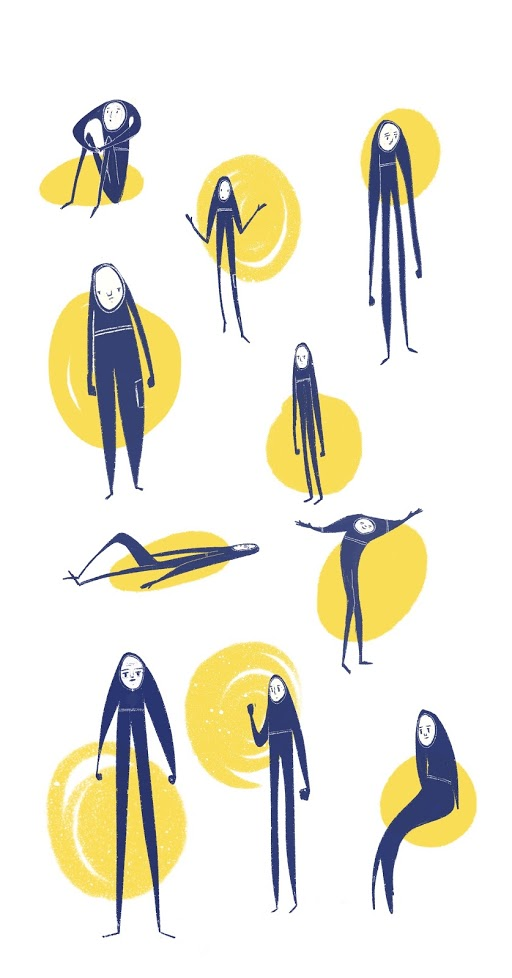
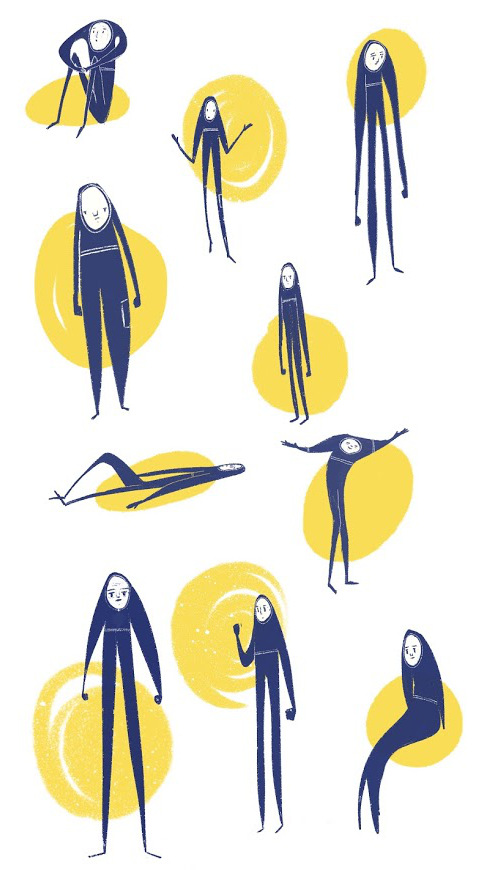
illustrations came from contentfull

diff --git a/pages/illustrations.js b/pages/illustrations.js
@@ -1,80 +1,68 @@
-import React, { useState } from 'react'
-import Image from 'next/image'
-import Head from 'next/head'
+import React, { useState } from 'react';
+import Image from 'next/image';
+import Head from 'next/head';
 import styles from './illustrations.module.scss';
-const fs = require('fs')
-const path = require('path');
-function illustration({ images }) {
-    const [showModal, setShowModal] = useState()
-    const handleOpenModal = (filename) => { setShowModal(filename) }
-    const handleCloseModal = () => { setShowModal() }
-    return (
-      <div >
-        <Head>
-          <title key="title">Illustrations 👨💻</title>
-        </Head>
-        <h1>Illustrations</h1>
-        {showModal && (
-          <div id="backdrop" onClick={handleCloseModal}>
-            <img src={showModal} className="backdrop__image" />
-          </div>
-        )}
-        <h2>The Wind</h2>
-        <div className={styles.container}>
-          <img src="/open.png" width={120} className={styles.open} />
 
-          {images['The Wind'].map((image, index) => (
-            <Image
-              onClick={() => handleOpenModal(`/images/illustrations/The Wind/${image}`)}
-              className="illustration"
-              key={`The Wind-${index}`}
-              src={`/images/illustrations/The Wind/${image}`}
-              width="128"
-              height="128"
-              objectFit="cover"
-            />
-          ))}
+function illustration(props) {
+  const [showModal, setShowModal] = useState();
+  const handleOpenModal = (filename) => {
+    setShowModal(filename);
+  };
+  const handleCloseModal = () => {
+    setShowModal();
+  };
+  const collections = [...new Set(props.data.items.map((image) => image.fields.collection[0]))];
+  return (
+    <div>
+      <Head>
+        <title key="title">Illustrations 👨💻</title>
+      </Head>
+      <h1>Illustrations</h1>
+      {showModal && (
+        <div id="backdrop" onClick={handleCloseModal}>
+          <img src={showModal} className="backdrop__image" />
         </div>
-        {Object.keys(images)
-          .filter((folder) => folder !== 'The Wind')
-          .map((folder) => (
-            <section key={folder}>
-              <h2>{folder}</h2>
-              <div className={styles.container}>
-                {images[folder].map((image, index) => (
-                  <Image
-                    onClick={() => handleOpenModal(`/images/illustrations/${folder}/${image}`)}
-                    className="illustration"
-                    key={`${folder}-${index}`}
-                    src={`/images/illustrations/${folder}/${image}`}
-                    width="64"
-                    height="64"
-                    objectFit="cover"
-                  />
-                ))}
-              </div>
-            </section>
-          ))}
-      </div>
-    );
+      )}
+      {collections.map((collection) => (
+        <>
+          <h2>{collection}</h2>
+          <div className={styles.container}>
+            {props.data.items
+              .filter((image) => image.fields.collection.includes(collection))
+              .map((image, index) => (
+                <Image
+                  onClick={() => handleOpenModal('https:' + image.fields.image.fields.file.url)}
+                  className="illustration"
+                  key={image.fields.title}
+                  src={'https:' + image.fields.image.fields.file.url}
+                  width="128"
+                  height="128"
+                  objectFit="cover"
+                />
+              ))}
+          </div>
+        </>
+      ))}
+    </div>
+  );
 }
 
-export default illustration
+export default illustration;
 
-
-export async function getStaticProps() {
-    const categories = fs.readdirSync(path.join(process.cwd(), '/public/images/illustrations'))
-    let tmp = []
-    let images = {}
-
-    categories
-        .filter(category => category != '.DS_Store')
-        .forEach(category => {
-            tmp = fs.readdirSync(path.join(process.cwd(), `/public/images/illustrations/${category}`))
-            images[category] = tmp.filter(image => image != '.DS_Store')
-        })
-
-    return {
-        props: { images },
-    };
-}
+const space = process.env.NEXT_PUBLIC_CONTENTFUL_SPACE_ID;
+const accessToken = process.env.NEXT_PUBLIC_CONTENTFUL_ACCESS_TOKEN;
+const client = require('contentful').createClient({
+  space: space,
+  accessToken: accessToken,
+});
+export const getServerSideProps = async (ctx) => {
+  const illustrations = await client.getEntries({
+    content_type: 'illustration',
+  });
+  // console.log(illustrations.items[0].fields.collection)
+  return {
+    props: {
+      data: illustrations,
+    },
+  };
+};

diff --git a/pages/illustrationsLegacy.js b/pages/illustrationsLegacy.js
@@ -1,0 +1,81 @@
+import React, { useState } from 'react';
+import Image from 'next/image';
+import Head from 'next/head';
+import styles from './illustrations.module.scss';
+const fs = require('fs');
+const path = require('path');
+function illustration({ images }) {
+  const [showModal, setShowModal] = useState();
+  const handleOpenModal = (filename) => {
+    setShowModal(filename);
+  };
+  const handleCloseModal = () => {
+    setShowModal();
+  };
+  return (
+    <div>
+      <Head>
+        <title key="title">Illustrations 👨💻</title>
+      </Head>
+      <h1>Illustrations</h1>
+      {showModal && (
+        <div id="backdrop" onClick={handleCloseModal}>
+          <img src={showModal} className="backdrop__image" />
+        </div>
+      )}
+      <h2>The Wind</h2>
+      <div className={styles.container}>
+        {images['The Wind'].map((image, index) => (
+          <Image
+            onClick={() => handleOpenModal(`/images/illustrations/The Wind/${image}`)}
+            className="illustration"
+            key={`The Wind-${index}`}
+            src={`/images/illustrations/The Wind/${image}`}
+            width="128"
+            height="128"
+            objectFit="cover"
+          />
+        ))}
+      </div>
+      {Object.keys(images)
+        .filter((folder) => folder !== 'The Wind')
+        .map((folder) => (
+          <section key={folder}>
+            <h2>{folder}</h2>
+            <div className={styles.container}>
+              {images[folder].map((image, index) => (
+                <Image
+                  onClick={() => handleOpenModal(`/images/illustrations/${folder}/${image}`)}
+                  className="illustration"
+                  key={`${folder}-${index}`}
+                  src={`/images/illustrations/${folder}/${image}`}
+                  width="64"
+                  height="64"
+                  objectFit="cover"
+                />
+              ))}
+            </div>
+          </section>
+        ))}
+    </div>
+  );
+}
+
+export default illustration;
+
+export async function getStaticProps() {
+  const categories = fs.readdirSync(path.join(process.cwd(), '/public/images/illustrations'));
+  let tmp = [];
+  let images = {};
+
+  categories
+    .filter((category) => category != '.DS_Store')
+    .forEach((category) => {
+      tmp = fs.readdirSync(path.join(process.cwd(), `/public/images/illustrations/${category}`));
+      images[category] = tmp.filter((image) => image != '.DS_Store');
+    });
+
+  return {
+    props: { images },
+  };
+}
